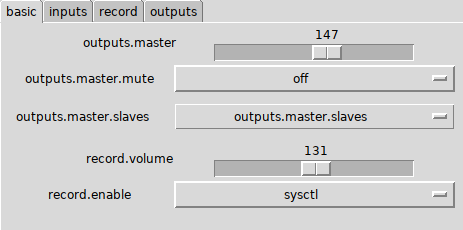
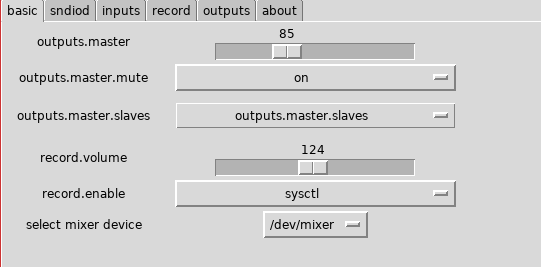
update screenshots

Changed region(s): [[0.0, 0.0, 1.0, 1.0], [0.0605, 0.5783, 0.2419, 0.6087], [0.9071, 0.487, 0.9676, 0.5174]]

diff --git a/README.md b/README.md
@@ -8,9 +8,18 @@ in the future (such as setting sndiod flags).
 gmixerctl is written in in Python3 with tkinter, and operates by wrapping
 the mixerctl command itself.
 
+## Key Features
+
+* Full functionality of `mixerctl` is exposed as a GUI
+
+* Robust against differing output options across different mixer devices
+
+* Support for changing `rsnd` device and `sndiod` flags
+
 ## Screenshots
 
 ![](screenshots/basic.png)
+![](screenshots/sndiod.png)
 ![](screenshots/outputs.png)
 
 ## Installation
